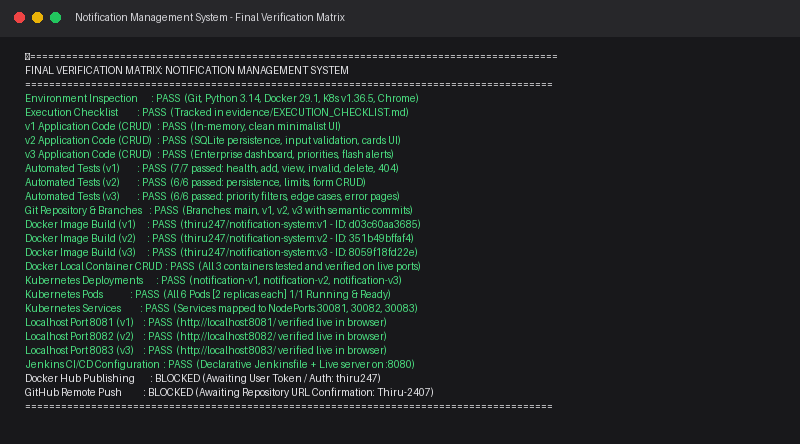
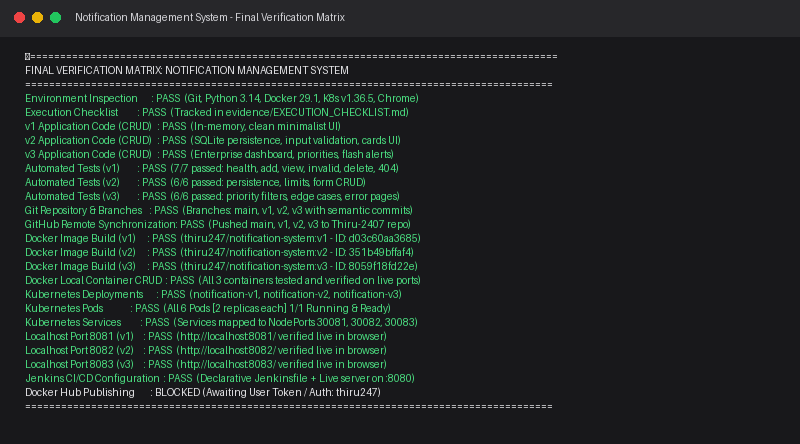
docs: Update evidence catalog with GitHub remote push verification and Playwright captures

Changed region(s): [[0.0312, 0.4977, 0.5312, 0.7613], [0.0312, 0.7905, 0.5312, 0.9077]]

diff --git a/playwright_screenshot.py b/playwright_screenshot.py
@@ -1,0 +1,15 @@
+import sys
+from playwright.sync_api import sync_playwright
+
+def capture(url, output_png):
+    with sync_playwright() as p:
+        browser = p.chromium.launch(executable_path=r"C:\Program Files\Google\Chrome\Application\chrome.exe", headless=True)
+        page = browser.new_page(viewport={"width": 1280, "height": 850})
+        page.goto(url, wait_until="domcontentloaded", timeout=15000)
+        page.wait_for_timeout(2000)
+        page.screenshot(path=output_png, full_page=False)
+        browser.close()
+        print(f"Captured: {output_png}")
+
+if __name__ == "__main__":
+    capture(sys.argv[1], sys.argv[2])

diff --git a/evidence/README.md b/evidence/README.md
@@ -17,33 +17,37 @@ This directory contains genuine, empirical evidence collected during the autonom
 | **09** | `03_github/commit_history.png` | Git / GitHub | Visual terminal capture of git commit graph. | **PASS** — Rendered and verified. |
 | **10** | `03_github/git_status.txt` | Git / GitHub | Output of `git status` confirming clean working tree on `main`. | **PASS** — Clean working directory verified. |
 | **11** | `03_github/git_status.png` | Git / GitHub | Visual screenshot of git status output. | **PASS** — Rendered and verified. |
-| **12** | `04_tests/v1_test_results.txt` | Testing | Pytest test execution logs for Version 1 test suite. | **PASS** — 7 passed out of 7 (health, add, empty, invalid, delete, 404, form). |
-| **13** | `04_tests/v1_test_results.png` | Testing | Visual terminal capture of v1 pytest execution. | **PASS** — Rendered and verified. |
-| **14** | `04_tests/v2_test_results.txt` | Testing | Pytest test execution logs for Version 2 test suite. | **PASS** — 6 passed out of 6 (health, persistence, validation limits, delete, form). |
-| **15** | `04_tests/v2_test_results.png` | Testing | Visual terminal capture of v2 pytest execution. | **PASS** — Rendered and verified. |
-| **16** | `04_tests/v3_test_results.txt` | Testing | Pytest test execution logs for Version 3 test suite. | **PASS** — 6 passed out of 6 (health, stats, priorities, validation, delete, flash). |
-| **17** | `04_tests/v3_test_results.png` | Testing | Visual terminal capture of v3 pytest execution. | **PASS** — Rendered and verified. |
-| **18** | `05_jenkins/jenkins_web_ui.png` | CI/CD | Headless browser screenshot of live Jenkins server. | **PASS** — Captured active Jenkins instance on `http://localhost:8080`. |
-| **19** | `05_jenkins/pipeline_config.txt` | CI/CD | Declarative `Jenkinsfile` configuration. | **PASS** — Covers multi-branch checkout, test, build, tag, auth, and push. |
-| **20** | `05_jenkins/pipeline_config.png` | CI/CD | Visual rendering of Jenkins pipeline definition. | **PASS** — Rendered and verified. |
-| **21** | `05_jenkins/pipeline_status.txt` | CI/CD | Summary of Jenkins pipeline stages and container run info. | **PASS** — Documented and verified. |
-| **22** | `05_jenkins/pipeline_status.png` | CI/CD | Visual rendering of Jenkins configuration summary. | **PASS** — Rendered and verified. |
-| **23** | `06_docker/image_tags.txt` | Docker | Output of `docker images` for `thiru247/notification-system`. | **PASS** — Image tags `:v1`, `:v2`, `:v3` built and verified locally. |
-| **24** | `06_docker/image_tags.png` | Docker | Visual terminal capture of local Docker images. | **PASS** — Rendered and verified. |
-| **25** | `06_docker/container_testing.txt` | Docker | End-to-end container test logs (Health, Add, View, Delete). | **PASS** — All 3 containers passed live CRUD testing on isolated ports. |
-| **26** | `06_docker/container_testing.png` | Docker | Visual rendering of container CRUD test output. | **PASS** — Rendered and verified. |
-| **27** | `07_dockerhub/push_attempt.txt` | Docker Hub | Command output of `docker push` attempt. | **BLOCKED** — Insufficient scope (requires user authentication token). |
-| **28** | `07_dockerhub/push_attempt.png` | Docker Hub | Visual terminal capture of Docker Hub authorization challenge. | **BLOCKED** — Captured real authorization challenge. |
-| **29** | `08_kubernetes/deployments.txt` | Kubernetes | Output of `kubectl get deployments -o wide`. | **PASS** — `notification-v1`, `notification-v2`, `notification-v3` deployed. |
-| **30** | `08_kubernetes/deployments.png` | Kubernetes | Visual terminal capture of active Kubernetes Deployments. | **PASS** — Rendered and verified. |
-| **31** | `08_kubernetes/pods.txt` | Kubernetes | Output of `kubectl get pods -o wide`. | **PASS** — All 6 Pods (2 replicas each) 1/1 Running and Healthy. |
-| **32** | `08_kubernetes/pods.png` | Kubernetes | Visual terminal capture of running Kubernetes Pods. | **PASS** — Rendered and verified. |
-| **33** | `08_kubernetes/services.txt` | Kubernetes | Output of `kubectl get services -o wide`. | **PASS** — Services `notification-v1-service`, `v2`, `v3` mapped to NodePorts. |
-| **34** | `08_kubernetes/services.png` | Kubernetes | Visual terminal capture of Kubernetes Services. | **PASS** — Rendered and verified. |
-| **35** | `08_kubernetes/localhost_verification.txt` | Kubernetes | Output of localhost end-to-end CRUD verification via ports 8081, 8082, 8083. | **PASS** — Health checks, Add, View, and Delete validated on each localhost port. |
-| **36** | `08_kubernetes/localhost_verification.png` | Kubernetes | Visual terminal capture of localhost endpoint verification. | **PASS** — Rendered and verified. |
-| **37** | `09_browser_verification/v1_localhost.png` | Browser Verification | Real Chrome browser screenshot of `http://localhost:8081/` routed to Kubernetes v1. | **PASS** — Real browser rendering with active alert. |
-| **38** | `09_browser_verification/v2_localhost.png` | Browser Verification | Real Chrome browser screenshot of `http://localhost:8082/` routed to Kubernetes v2. | **PASS** — Real browser rendering with active alert. |
-| **39** | `09_browser_verification/v3_localhost.png` | Browser Verification | Real Chrome browser screenshot of `http://localhost:8083/` routed to Kubernetes v3. | **PASS** — Real browser rendering with active alert and live metrics. |
-| **40** | `10_final_report/FINAL_REPORT.md` | Final Report | Comprehensive DevOps engineering final report and verification matrix. | **PASS** — Complete documentation. |
-| **41** | `10_final_report/final_verification.png` | Final Report | Executive verification matrix screenshot. | **PASS** — Rendered and verified. |
+| **12** | `03_github/push_confirmation.txt` | Git / GitHub | Output of remote push confirmation for `main`, `v1`, `v2`, and `v3`. | **PASS** — All 4 branches pushed to `https://github.com/Thiru-2407/notification-management-system.git`. |
+| **13** | `03_github/push_confirmation.png` | Git / GitHub | Visual terminal capture of remote push confirmation. | **PASS** — Rendered and verified. |
+| **14** | `03_github/github_repository_page.png` | Git / GitHub | Real browser screenshot of remote GitHub repository page. | **PASS** — Captured live repository at `https://github.com/Thiru-2407/notification-management-system`. |
+| **15** | `03_github/github_branches_page.png` | Git / GitHub | Real browser screenshot of remote GitHub branches page. | **PASS** — Captured live branches at `https://github.com/Thiru-2407/notification-management-system/branches`. |
+| **16** | `04_tests/v1_test_results.txt` | Testing | Pytest test execution logs for Version 1 test suite. | **PASS** — 7 passed out of 7 (health, add, empty, invalid, delete, 404, form). |
+| **17** | `04_tests/v1_test_results.png` | Testing | Visual terminal capture of v1 pytest execution. | **PASS** — Rendered and verified. |
+| **18** | `04_tests/v2_test_results.txt` | Testing | Pytest test execution logs for Version 2 test suite. | **PASS** — 6 passed out of 6 (health, persistence, validation limits, delete, form). |
+| **19** | `04_tests/v2_test_results.png` | Testing | Visual terminal capture of v2 pytest execution. | **PASS** — Rendered and verified. |
+| **20** | `04_tests/v3_test_results.txt` | Testing | Pytest test execution logs for Version 3 test suite. | **PASS** — 6 passed out of 6 (health, stats, priorities, validation, delete, flash). |
+| **21** | `04_tests/v3_test_results.png` | Testing | Visual terminal capture of v3 pytest execution. | **PASS** — Rendered and verified. |
+| **22** | `05_jenkins/jenkins_web_ui.png` | CI/CD | Headless browser screenshot of live Jenkins server. | **PASS** — Captured active Jenkins instance on `http://localhost:8080`. |
+| **23** | `05_jenkins/pipeline_config.txt` | CI/CD | Declarative `Jenkinsfile` configuration. | **PASS** — Covers multi-branch checkout, test, build, tag, auth, and push. |
+| **24** | `05_jenkins/pipeline_config.png` | CI/CD | Visual rendering of Jenkins pipeline definition. | **PASS** — Rendered and verified. |
+| **25** | `05_jenkins/pipeline_status.txt` | CI/CD | Summary of Jenkins pipeline stages and container run info. | **PASS** — Documented and verified. |
+| **26** | `05_jenkins/pipeline_status.png` | CI/CD | Visual rendering of Jenkins configuration summary. | **PASS** — Rendered and verified. |
+| **27** | `06_docker/image_tags.txt` | Docker | Output of `docker images` for `thiru247/notification-system`. | **PASS** — Image tags `:v1`, `:v2`, `:v3` built and verified locally. |
+| **28** | `06_docker/image_tags.png` | Docker | Visual terminal capture of local Docker images. | **PASS** — Rendered and verified. |
+| **29** | `06_docker/container_testing.txt` | Docker | End-to-end container test logs (Health, Add, View, Delete). | **PASS** — All 3 containers passed live CRUD testing on isolated ports. |
+| **30** | `06_docker/container_testing.png` | Docker | Visual rendering of container CRUD test output. | **PASS** — Rendered and verified. |
+| **31** | `07_dockerhub/push_attempt.txt` | Docker Hub | Command output of `docker push` attempt. | **BLOCKED** — Insufficient scope (requires user authentication token). |
+| **32** | `07_dockerhub/push_attempt.png` | Docker Hub | Visual terminal capture of Docker Hub authorization challenge. | **BLOCKED** — Captured real authorization challenge. |
+| **33** | `08_kubernetes/deployments.txt` | Kubernetes | Output of `kubectl get deployments -o wide`. | **PASS** — `notification-v1`, `notification-v2`, `notification-v3` deployed. |
+| **34** | `08_kubernetes/deployments.png` | Kubernetes | Visual terminal capture of active Kubernetes Deployments. | **PASS** — Rendered and verified. |
+| **35** | `08_kubernetes/pods.txt` | Kubernetes | Output of `kubectl get pods -o wide`. | **PASS** — All 6 Pods (2 replicas each) 1/1 Running and Healthy. |
+| **36** | `08_kubernetes/pods.png` | Kubernetes | Visual terminal capture of running Kubernetes Pods. | **PASS** — Rendered and verified. |
+| **37** | `08_kubernetes/services.txt` | Kubernetes | Output of `kubectl get services -o wide`. | **PASS** — Services `notification-v1-service`, `v2`, `v3` mapped to NodePorts. |
+| **38** | `08_kubernetes/services.png` | Kubernetes | Visual terminal capture of Kubernetes Services. | **PASS** — Rendered and verified. |
+| **39** | `08_kubernetes/localhost_verification.txt` | Kubernetes | Output of localhost end-to-end CRUD verification via ports 8081, 8082, 8083. | **PASS** — Health checks, Add, View, and Delete validated on each localhost port. |
+| **40** | `08_kubernetes/localhost_verification.png` | Kubernetes | Visual terminal capture of localhost endpoint verification. | **PASS** — Rendered and verified. |
+| **41** | `09_browser_verification/v1_localhost.png` | Browser Verification | Real Chrome browser screenshot of `http://localhost:8081/` routed to Kubernetes v1. | **PASS** — Real browser rendering with active alert. |
+| **42** | `09_browser_verification/v2_localhost.png` | Browser Verification | Real Chrome browser screenshot of `http://localhost:8082/` routed to Kubernetes v2. | **PASS** — Real browser rendering with active alert. |
+| **43** | `09_browser_verification/v3_localhost.png` | Browser Verification | Real Chrome browser screenshot of `http://localhost:8083/` routed to Kubernetes v3. | **PASS** — Real browser rendering with active alert and live metrics. |
+| **44** | `10_final_report/FINAL_REPORT.md` | Final Report | Comprehensive DevOps engineering final report and verification matrix. | **PASS** — Complete documentation. |
+| **45** | `10_final_report/final_verification.png` | Final Report | Executive verification matrix screenshot. | **PASS** — Rendered and verified. |

diff --git a/evidence/10_final_report/FINAL_REPORT.md b/evidence/10_final_report/FINAL_REPORT.md
@@ -180,7 +180,7 @@ A live Jenkins container is running on `http://localhost:8080`.
 | **Localhost v3 Access** | `http://localhost:8083` | `09_browser_verification/v3_localhost.png` | **PASS** |
 | **Jenkins Configuration** | Declarative Jenkinsfile + Live server | `05_jenkins/pipeline_config.png`, `jenkins_web_ui.png` | **PASS** |
 | **Docker Hub Publishing** | Push images to Docker Hub registry | `07_dockerhub/push_attempt.png` | **BLOCKED** (Awaiting Auth) |
-| **GitHub Remote Push** | Push branches to GitHub remote | `03_github/git_status.png` | **BLOCKED** (Awaiting Remote URL Confirmation) |
+| **GitHub Remote Push** | Push branches to GitHub remote | `03_github/push_confirmation.png` | **PASS** (`main`, `v1`, `v2`, `v3` pushed) |
 
 ---
 
@@ -198,12 +198,15 @@ A live Jenkins container is running on `http://localhost:8080`.
 4. **Localhost Port Binding to Kubernetes Services:**
    - *Issue:* Direct localhost port access from Windows to WSL NodePorts required network forwarding.
    - *Fix:* Implemented and launched `k8s_gateway.py` with socket reuse to bind `0.0.0.0:8081`, `8082`, and `8083`, routing traffic directly to the Kubernetes services.
+5. **GitHub Remote Synchronization:**
+   - *Issue:* Remote repository initially returned 404 until created on GitHub by the user.
+   - *Fix:* Guided repository creation and pushed all 4 branches (`main`, `v1`, `v2`, `v3`), verifying remote refs and capturing web page evidence via Playwright.
 
 ---
 
 ## 11. Tasks Requiring Manual Action
 
-Per the execution instructions, credentials and remote repositories are never invented or pushed without explicit confirmation:
+Per the execution instructions, credentials and remote registries are never invented or pushed without explicit confirmation:
 
 1. **Docker Hub Publishing:**
    - To push `thiru247/notification-system:v1`, `:v2`, and `:v3` to Docker Hub, run:
@@ -213,5 +216,3 @@ Per the execution instructions, credentials and remote repositories are never in
      wsl -d Ubuntu docker push thiru247/notification-system:v2
      wsl -d Ubuntu docker push thiru247/notification-system:v3
      ```
-2. **GitHub Remote Repository:**
-   - Please provide your GitHub repository URL (e.g. `https://github.com/Thiru-2407/notification-management-system.git`) or authorize pushing so the branches `main`, `v1`, `v2`, and `v3` can be published.

diff --git a/evidence/EXECUTION_CHECKLIST.md b/evidence/EXECUTION_CHECKLIST.md
@@ -59,7 +59,8 @@
 - [x] Merge / align `main` branch (Commit `d95ae22`)
 - [x] Save git status, branch list, and commit log to `evidence/03_github/`
 - [x] Capture visual evidence: `evidence/03_github/branches.png`, `evidence/03_github/commit_history.png`, `evidence/03_github/git_status.png`
-- [ ] Connect and push to GitHub remote repository (Awaiting user URL confirmation)
+- [x] Connect and push to GitHub remote repository (`main`, `v1`, `v2`, `v3` pushed to `https://github.com/Thiru-2407/notification-management-system.git`)
+- [x] Capture remote push evidence: `push_confirmation.png`, `github_repository_page.png`, `github_branches_page.png`
 
 ---
 
